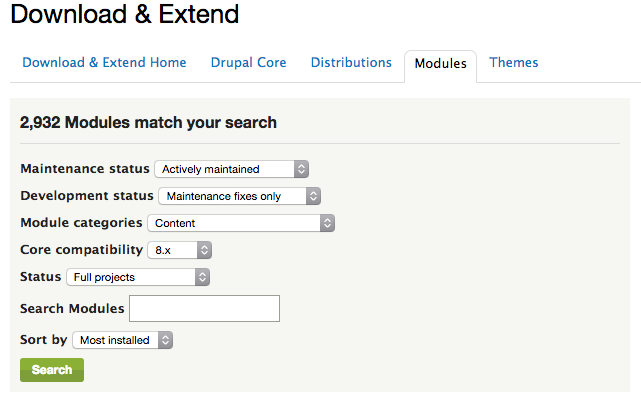
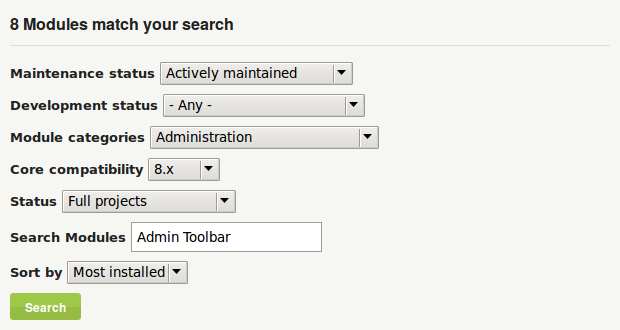
Issue #2539918 and #2789521 by jhodgdon, eojthebrave: Automate screenshots in extend-maintenance-mode and extend-module-find. Remove drupalmodules.com from extend-module-find.

diff --git a/auto_screenshots/src/Tests/UserGuideDemoTestBase.php b/auto_screenshots/src/Tests/UserGuideDemoTestBase.php
@@ -1572,7 +1572,40 @@ abstract class UserGuideDemoTestBase extends WebTestBase {
    * Makes screenshots for the Extending chapter.
    */
   protected function doExtending() {
-    // @todo Write this.
+
+    // Topic: extend-module-find - Finding Modules
+
+    // Search for Admin Toolbar in 8.x on drupal.org.
+    $this->drupalGet('https://www.drupal.org/project/project_module?f[0]=im_vid_44%3A13028&f[1]=&f[2]=im_vid_3%3A53&f[3]=drupal_core%3A7234&f[4]=sm_field_project_type%3Afull&text=Admin+Toolbar&solrsort=iss_project_release_usage+desc&op=Search');
+    // Module search box on https://www.drupal.org/project/project_module.
+    $this->setUpScreenShot('extend-module-find_module_finder.png', 'onLoad="' . $this->showOnly('#project-solr-browse-projects-form') . $this->removeScrollbars() . '"');
+    // Search results on https://www.drupal.org/project/project_module.
+    $this->setUpScreenShot('extend-module-find_search_results.png', 'onLoad="window.scroll(0,600);' . $this->showOnly('#block-system-main .node-project-module') . $this->removeScrollbars() . '"');
+    $this->drupalGet('https://www.drupal.org/project/admin_toolbar');
+    // Project page for Admin Toolbar module.
+    $this->setUpScreenShot('extend-module-find_project_info.png', 'onLoad="' . $this->hideArea('#nav-header, #header, #page-title-tools, #nav-content, #banner') . $this->addBorder('#block-versioncontrol-project-project-maintainers, .issue-cockpit-categories, #block-drupalorg-project-resources, .project-info') . $this->removeScrollbars() . '"');
+
+    // Topic: extend-maintenance: Enabling and Disabling Maintenance Mode.
+    $this->drupalPostForm('admin/config/development/maintenance', [
+        'maintenance_mode' => 1,
+      ], $this->callT('Save configuration'));
+    $this->clearCache();
+    $this->drupalLogout();
+    $this->drupalGet('<front>');
+    // Site in maintenance mode.
+    $this->setUpScreenShot('extend-maintenance-mode-enabled.png', 'style="overflow: hidden;"');
+    $this->drupalLogin($this->rootUser);
+    $this->drupalPostForm('admin/config/development/maintenance', [
+        'maintenance_mode' => FALSE,
+      ], $this->callT('Save configuration'));
+    $this->clearCache();
+    $this->drupalLogout();
+    $this->drupalGet('<front>');
+    // Site no longer in maintenance mode.
+    $this->setUpScreenShot('extend-maintenance-mode-disabled.png', 'onLoad="' . $this->removeScrollbars() . '"');
+    $this->drupalLogin($this->rootUser);
+
+    // @todo Add the rest of the topics in this chapter here.
   }
 
   /**

diff --git a/auto_screenshots/src/Tests/UserGuideDemoTestEn.php b/auto_screenshots/src/Tests/UserGuideDemoTestEn.php
@@ -24,8 +24,8 @@ class UserGuideDemoTestEn extends UserGuideDemoTestBase {
     'doBlocks' => 'skip',
     'doViews' => 'skip',
     'doMultilingualSetup' => 'skip',
-    'doTranslating' => 'restore_backup',
-    'doExtending' => 'skip',
+    'doTranslating' => 'skip',
+    'doExtending' => 'restore',
     'doPreventing' => 'skip',
     'doSecurity' => 'skip',
   ];
